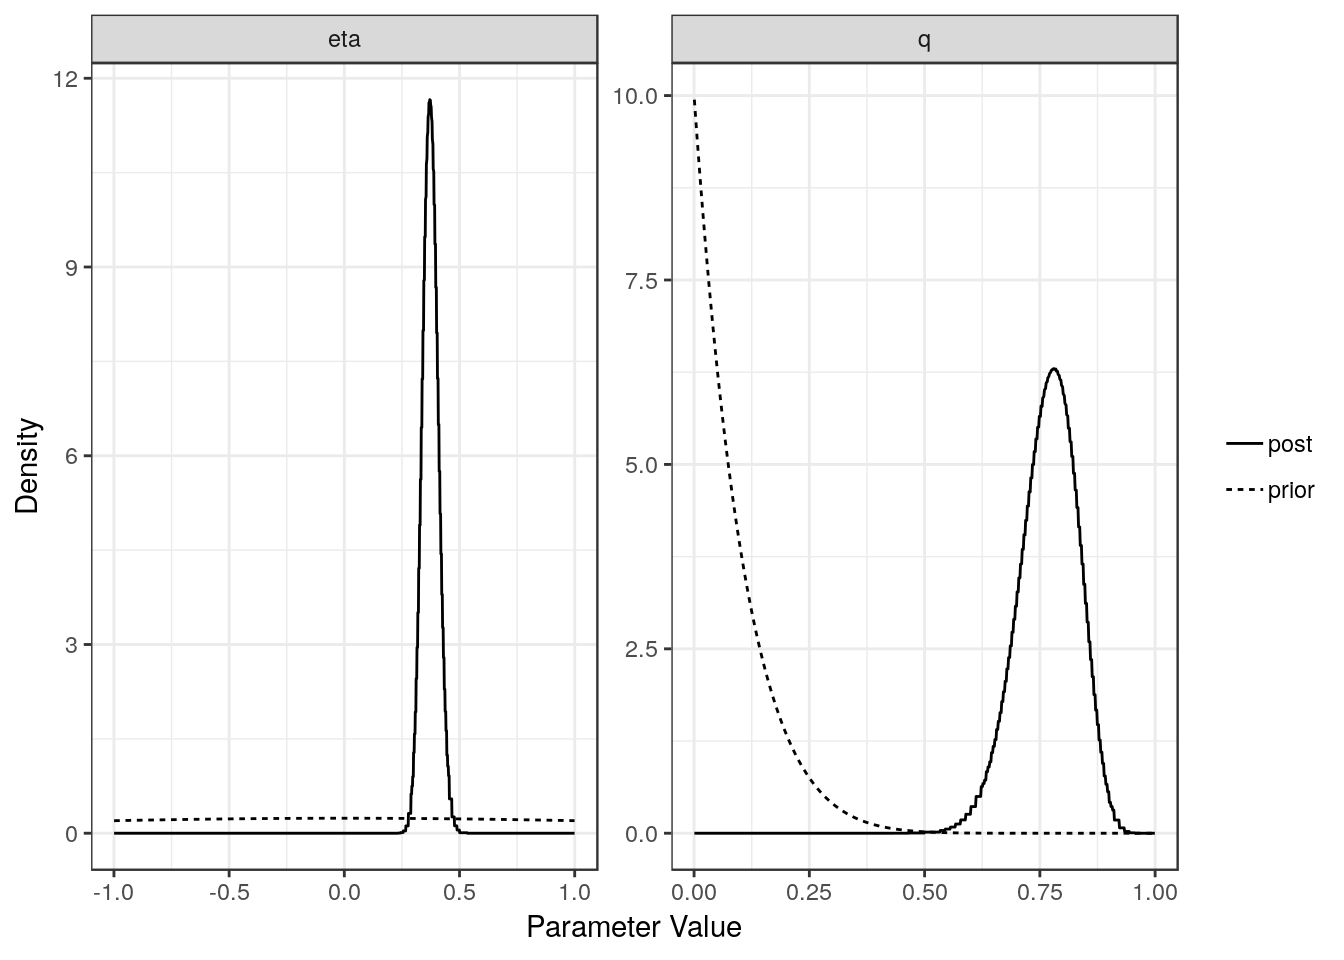
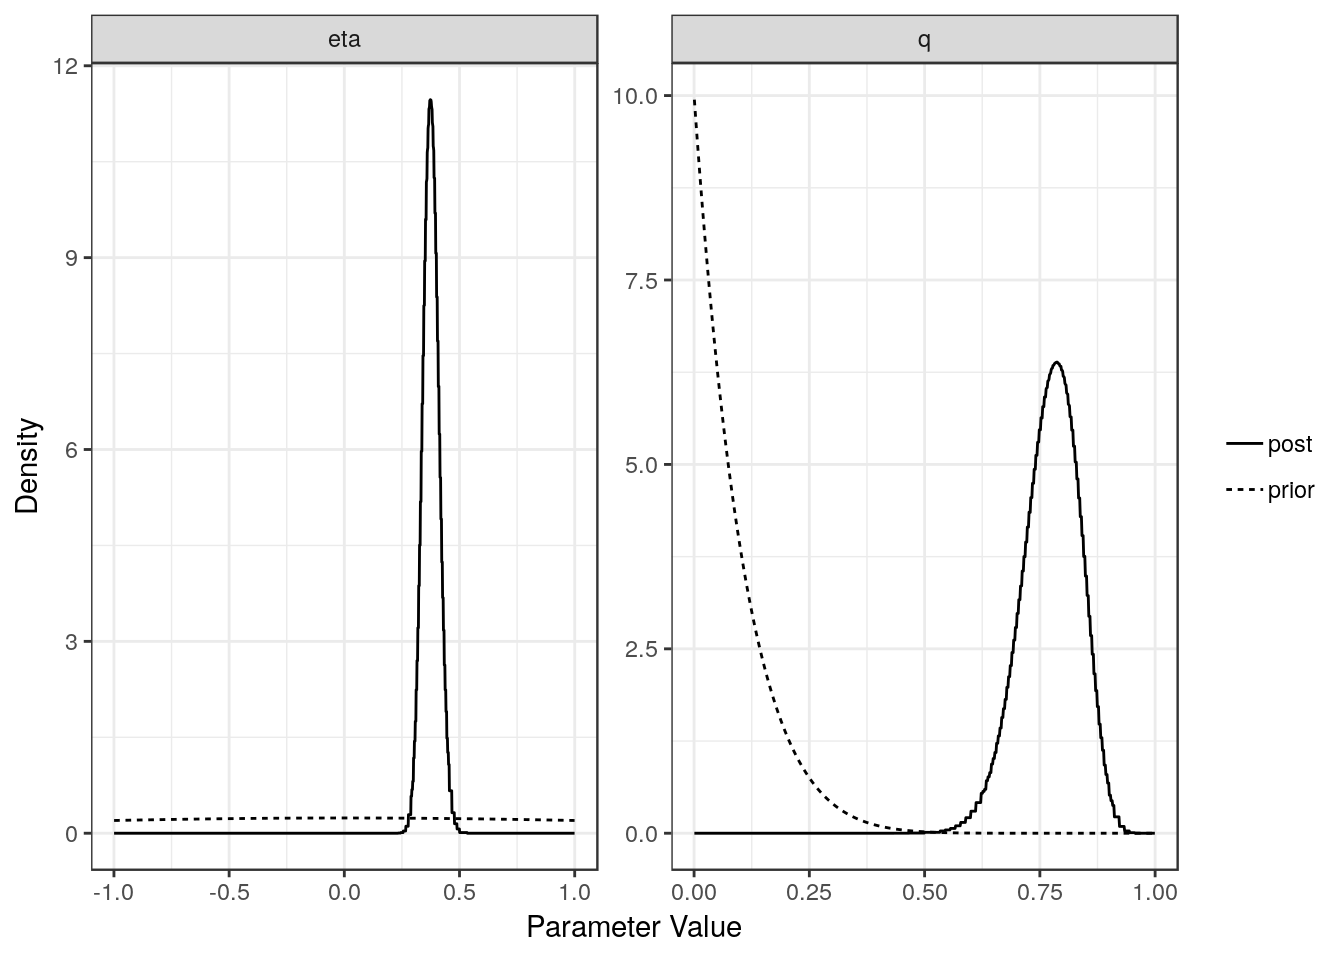
Build site.

diff --git a/docs/ldl_cad.html b/docs/ldl_cad.html
@@ -353,7 +353,7 @@ div.section {
 </details>
 </li>
 <li>
-<p><details> <summary> <strong style="color:blue;">✔</strong> <strong>Repository version:</strong> <a href="https://github.com/jean997/cause/tree/0e352686c547156d6b4f7085d5779325717090c9" target="_blank">0e35268</a> </summary></p>
+<p><details> <summary> <strong style="color:blue;">✔</strong> <strong>Repository version:</strong> <a href="https://github.com/jean997/cause/tree/e0a6df4a672d4a6b6db130fe9f937792351cf567" target="_blank">e0a6df4</a> </summary></p>
 Great! You are using Git for version control. Tracking code development and connecting the code version to the results is critical for reproducibility. The version displayed above was the version of the Git repository at the time these results were generated. <br><br> Note that you need to be careful to ensure that all relevant files for the analysis have been committed to Git prior to generating the results (you can use <code>wflow_publish</code> or <code>wflow_git_commit</code>). workflowr only checks the R Markdown file, but you know if there are other scripts or data files that it depends on. Below is the status of the Git repository when the results were generated:
 <pre><code>
 Ignored files:
@@ -412,6 +412,40 @@ Message
 </tr>
 </thead>
 <tbody>
+<tr>
+<td style="text-align:left;">
+Rmd
+</td>
+<td style="text-align:left;">
+<a href="https://github.com/jean997/cause/blob/e0a6df4a672d4a6b6db130fe9f937792351cf567/analysis/ldl_cad.Rmd" target="_blank">e0a6df4</a>
+</td>
+<td style="text-align:left;">
+Jean Morrison
+</td>
+<td style="text-align:left;">
+2019-06-25
+</td>
+<td style="text-align:left;">
+wflow_publish(files = c(“analysis/ldl_cad.Rmd”))
+</td>
+</tr>
+<tr>
+<td style="text-align:left;">
+html
+</td>
+<td style="text-align:left;">
+<a href="https://cdn.rawgit.com/jean997/cause/33b373230107121d24eb71d1d4a7bdd70488f4c4/docs/ldl_cad.html" target="_blank">33b3732</a>
+</td>
+<td style="text-align:left;">
+Jean Morrison
+</td>
+<td style="text-align:left;">
+2019-06-25
+</td>
+<td style="text-align:left;">
+Build site.
+</td>
+</tr>
 <tr>
 <td style="text-align:left;">
 Rmd
@@ -774,13 +808,14 @@ head(X)</code></pre>
 <h2>Step 3: Calculate nuisance parameters</h2>
 <p>The next step is to estimate the parameters that define the prior distribution of <span class="math inline">\(\beta_{M}\)</span> and <span class="math inline">\(\theta\)</span> and to estimate <span class="math inline">\(\rho\)</span>, the correlation between summary statistics that is due to sample overlap or population structure. We will do this with a random subset of 1,000,000 variants since our data set is large. This step takes a few minutes. <code>est_cause_params</code> estimates the nuisance parameters by finding the maximum a posteriori estimate of <span class="math inline">\(\rho\)</span> and the mixing parameters when <span class="math inline">\(\gamma = \eta = 0\)</span>.</p>
 <pre class="r"><code>set.seed(100)
-varlist &lt;- with(X, sample(snp, size=100000, replace=FALSE))
+varlist &lt;- with(X, sample(snp, size=1000000, replace=FALSE))
 params &lt;- est_cause_params(X, varlist)</code></pre>
-<pre><code>Estimating CAUSE parameters with  100000  variants.
-1 0.06583041 
-2 0.0003043269 
-3 3.807672e-06 
-4 4.757768e-08 </code></pre>
+<pre><code>Estimating CAUSE parameters with  1000000  variants.
+1 0.1530926 
+2 0.0006548855 
+3 8.291495e-06 
+4 1.06693e-07 
+5 5.555824e-10 </code></pre>
 <p>The object <code>params</code> is of class <code>cause_params</code> and contains information about the fit as well as the maximum a posteriori estimates of the mixing parameters (<span class="math inline">\(\pi\)</span>) and <span class="math inline">\(\rho\)</span>. The object <code>params$mix_grid</code> is a data frame defining the distribution of summary statistics. The column <code>S1</code> is the variance for trait 1 (<span class="math inline">\(M\)</span>), the column <code>S2</code> is the variance for trait 2 (<span class="math inline">\(Y\)</span>) and the column <code>pi</code> is the mixture proportion assigned to that variance combination.</p>
 <pre class="r"><code>class(params)</code></pre>
 <pre><code>[1] &quot;cause_params&quot;</code></pre>
@@ -788,16 +823,16 @@ params &lt;- est_cause_params(X, varlist)</code></pre>
 <pre><code> [1] &quot;rho&quot;       &quot;pi&quot;        &quot;mix_grid&quot;  &quot;loglik&quot;    &quot;PIS&quot;      
  [6] &quot;RHO&quot;       &quot;LLS&quot;       &quot;converged&quot; &quot;prior&quot;     &quot;var&quot;      </code></pre>
 <pre class="r"><code>params$rho</code></pre>
-<pre><code>[1] 0.0661386</code></pre>
+<pre><code>[1] 0.06465867</code></pre>
 <pre class="r"><code>head(params$mix_grid)</code></pre>
-<pre><code>           S1          S2           pi
-1 0.000000000 0.000000000 0.3633618165
-2 0.018428547 0.000000000 0.0002364998
-3 0.000000000 0.003844598 0.2331996101
-4 0.000000000 0.005437082 0.0660832658
-5 0.003257738 0.005437082 0.2505817165
-6 0.004607137 0.010874164 0.0472852839</code></pre>
-<p>So, for example, in this case, we have estimated that 36% of variants have trait 1 variance and trait 2 equal to 0 meaning that they have no association with either trait.</p>
+<pre><code>           S1          S2          pi
+1 0.000000000 0.000000000 0.349613038
+2 0.000000000 0.003408693 0.156938837
+3 0.003257738 0.003408693 0.002752562
+4 0.000000000 0.004820620 0.176297684
+5 0.003257738 0.004820620 0.143141741
+6 0.004607137 0.006817386 0.049773176</code></pre>
+<p>So, for example, in this case, we have estimated that 35% of variants have trait 1 variance and trait 2 equal to 0 meaning that they have no association with either trait.</p>
 <p>Tip: Do not try to estimate the nuisance parameters with substantially fewer than 100,000 variants. This can lead to poor estimates of the mixing parameters whih leads to bad model comparisons.</p>
 </div>
 <div id="step-3-ld-pruning" class="section level2">
@@ -886,9 +921,9 @@ res &lt;- cause(X=X, variants = top_vars, param_ests = params)</code></pre>
 [8] &quot;qbeta&quot;  </code></pre>
 <pre class="r"><code>res$elpd</code></pre>
 <pre><code>  model1 model2 delta_elpd se_delta_elpd         z
-1   null   conf -63.085956      8.041388 -7.845157
-2   null   full -71.201974      9.222390 -7.720555
-3   conf   full  -8.116018      1.272459 -6.378216</code></pre>
+1   null   conf -62.005377      7.783698 -7.966056
+2   null   full -70.272030      8.940126 -7.860295
+3   conf   full  -8.266653      1.242831 -6.651469</code></pre>
 <pre class="r"><code>class(res$conf)</code></pre>
 <pre><code>[1] &quot;cause_post&quot;</code></pre>
 <pre class="r"><code>class(res$full)</code></pre>
@@ -900,7 +935,7 @@ res &lt;- cause(X=X, variants = top_vars, param_ests = params)</code></pre>
 <li>se_delta_elpd: Estimated standard error of delta_elpd</li>
 <li>z: delta_elpd/se_delta_elpd. A z-score that can be compared to a normal distribution to test if the difference in model fit is significant.</li>
 </ul>
-<p>In this case we see that the full (causal) model is significantly better than the confounding model from the thrid line of the table. The <span class="math inline">\(z\)</span>-score is -6.38 corresponding to a p-value of 910^{-11}.</p>
+<p>In this case we see that the full (causal) model is significantly better than the confounding model from the thrid line of the table. The <span class="math inline">\(z\)</span>-score is -6.65 corresponding to a p-value of 1.510^{-11}.</p>
 <p>For each model (partial sharing and full) we can plot the posterior distributions of the parameters. Dotted lines show the prior distributions.</p>
 <pre class="r"><code>plot(res$conf)</code></pre>
 <p><img src="figure/ldl_cad.Rmd/plot1-1.png" width="672" style="display: block; margin: auto;" /></p>
@@ -920,6 +955,17 @@ Date
 </tr>
 </thead>
 <tbody>
+<tr>
+<td style="text-align:left;">
+<a href="https://github.com/jean997/cause/blob/33b373230107121d24eb71d1d4a7bdd70488f4c4/docs/figure/ldl_cad.Rmd/plot1-1.png" target="_blank">33b3732</a>
+</td>
+<td style="text-align:left;">
+Jean Morrison
+</td>
+<td style="text-align:left;">
+2019-06-25
+</td>
+</tr>
 <tr>
 <td style="text-align:left;">
 <a href="https://github.com/jean997/cause/blob/286f4e9e0a432565b96c38bba3a1b155c02f9a78/docs/figure/ldl_cad.Rmd/plot1-1.png" target="_blank">286f4e9</a>
@@ -998,6 +1044,17 @@ Date
 <tbody>
 <tr>
 <td style="text-align:left;">
+<a href="https://github.com/jean997/cause/blob/33b373230107121d24eb71d1d4a7bdd70488f4c4/docs/figure/ldl_cad.Rmd/plot1-2.png" target="_blank">33b3732</a>
+</td>
+<td style="text-align:left;">
+Jean Morrison
+</td>
+<td style="text-align:left;">
+2019-06-25
+</td>
+</tr>
+<tr>
+<td style="text-align:left;">
 <a href="https://github.com/jean997/cause/blob/286f4e9e0a432565b96c38bba3a1b155c02f9a78/docs/figure/ldl_cad.Rmd/plot1-2.png" target="_blank">286f4e9</a>
 </td>
 <td style="text-align:left;">
@@ -1056,13 +1113,13 @@ Jean Morrison
 <p></details></p>
 <p>The <code>summary</code> method will summarize the posterior medians and credible intervals.</p>
 <pre class="r"><code>summary(res, ci_size=0.95)</code></pre>
-<pre><code>p-value testing that causal model is a better fit:  9e-11 
+<pre><code>p-value testing that causal model is a better fit:  1.5e-11 
 Posterior medians and  95 % credible intervals:
-     model              gamma               eta                  
-[1,] &quot;Confounding Only&quot; NA                  &quot;0.37 (0.31, 0.44)&quot;  
-[2,] &quot;Causal&quot;           &quot;0.33 (0.28, 0.39)&quot; &quot;-0.01 (-0.62, 0.53)&quot;
+     model              gamma              eta                  
+[1,] &quot;Confounding Only&quot; NA                 &quot;0.38 (0.31, 0.45)&quot;  
+[2,] &quot;Causal&quot;           &quot;0.34 (0.28, 0.4)&quot; &quot;-0.01 (-0.65, 0.53)&quot;
      q                  
-[1,] &quot;0.77 (0.63, 0.88)&quot;
+[1,] &quot;0.78 (0.64, 0.88)&quot;
 [2,] &quot;0.03 (0, 0.25)&quot;   </code></pre>
 <p>The <code>plot</code> method applied to a <code>cause</code> object will arrange all of this information on one spread.</p>
 <pre class="r"><code>plot(res)</code></pre>
@@ -1083,6 +1140,17 @@ Date
 </tr>
 </thead>
 <tbody>
+<tr>
+<td style="text-align:left;">
+<a href="https://github.com/jean997/cause/blob/33b373230107121d24eb71d1d4a7bdd70488f4c4/docs/figure/ldl_cad.Rmd/plot2-1.png" target="_blank">33b3732</a>
+</td>
+<td style="text-align:left;">
+Jean Morrison
+</td>
+<td style="text-align:left;">
+2019-06-25
+</td>
+</tr>
 <tr>
 <td style="text-align:left;">
 <a href="https://github.com/jean997/cause/blob/286f4e9e0a432565b96c38bba3a1b155c02f9a78/docs/figure/ldl_cad.Rmd/plot2-1.png" target="_blank">286f4e9</a>
@@ -1160,6 +1228,17 @@ Date
 </tr>
 </thead>
 <tbody>
+<tr>
+<td style="text-align:left;">
+<a href="https://github.com/jean997/cause/blob/33b373230107121d24eb71d1d4a7bdd70488f4c4/docs/figure/ldl_cad.Rmd/plot3-1.png" target="_blank">33b3732</a>
+</td>
+<td style="text-align:left;">
+Jean Morrison
+</td>
+<td style="text-align:left;">
+2019-06-25
+</td>
+</tr>
 <tr>
 <td style="text-align:left;">
 <a href="https://github.com/jean997/cause/blob/286f4e9e0a432565b96c38bba3a1b155c02f9a78/docs/figure/ldl_cad.Rmd/plot3-1.png" target="_blank">286f4e9</a>
